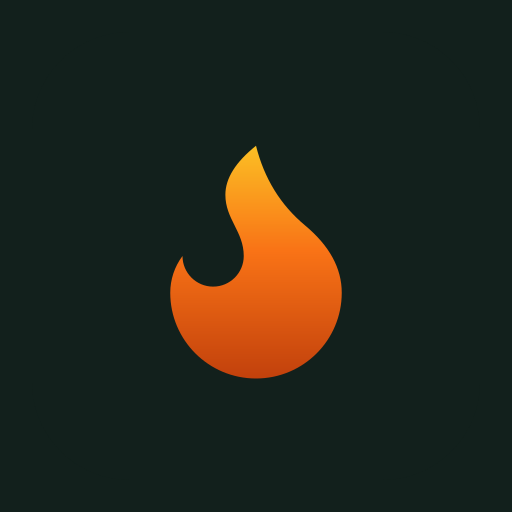
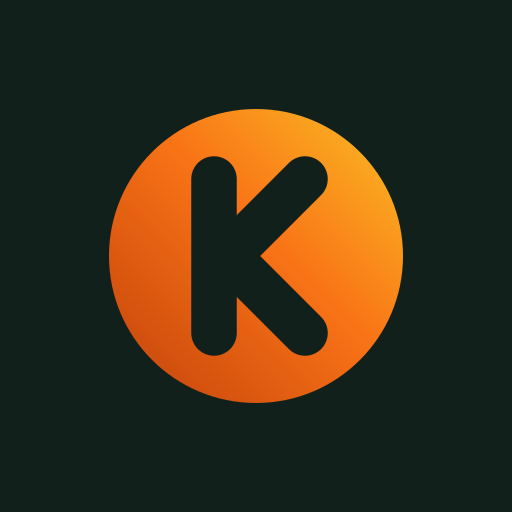
feat(marque): remplacer la flamme par le monogramme K
LA MARQUE APPARTENAIT DÉJÀ À QUELQU'UN. Une flamme pleine, en dégradé de
la braise à l'ambre, dans une tuile arrondie : c'est-à-dire, au dégradé
près, celle de Tinder. Une application installée se reconnaît à sa
silhouette sur un écran d'accueil, et celle-là n'était pas la nôtre.

LE K DANS UNE PASTILLE PLEINE. L'initiale du nom, que rien ne peut
confondre, creusée dans la couleur de la tuile plutôt que posée dessus :
c'était déjà l'argument de la flamme remplie plutôt que tracée — parmi les
icônes qui l'entourent, une masse pèse plus qu'un contour. La pastille
occupe 65 % de la tuile, sous les 80 % de la zone de sécurité du masque, et
le fond reste uni pour que le maskable se raccorde sans liseré.

LES BRAS PARTENT DU BORD DU FÛT, PAS DE SON AXE. Rendue à 16 px puis
agrandie sans lissage, la lettre se bouchait : les deux coins de braise
entre le fût et ses bras se refermaient et il ne restait qu'une tache. Les
faire naître deux unités plus à droite ouvre ces creux sans rien changer à
la silhouette. Vérifié à 16, 28 et 48 px, pixel par pixel.

LA FLAMME S'EN VA DE PARTOUT OÙ ELLE NE FAISAIT QUE SIGNER : l'en-tête,
qui sert déjà `favicon.svg`, et le repli du chargement — la laisser sur le
premier écran d'un démarrage à froid aurait gardé vivante l'association
qu'on voulait rompre. Une boussole la remplace, et bat depuis son centre au
lieu de vaciller depuis un pied qu'elle n'a pas. Elle RESTE là où elle veut
dire « ceci s'éteint » : le partage d'un jour.
[…]

Changed region(s): [[0.1875, 0.1875, 0.8125, 0.8125]]

diff --git a/src/components/PhotosExport.test.tsx b/src/components/PhotosExport.test.tsx
@@ -1,5 +1,5 @@
 import { beforeEach, describe, expect, it, vi } from 'vitest';
-import { render, screen } from '@testing-library/react';
+import { render, screen, waitFor } from '@testing-library/react';
 import userEvent from '@testing-library/user-event';
 import { ToastProvider } from '@mister-guiiug/dev-pwa-config/react/toast';
 import { downloadBlob } from '@mister-guiiug/dev-pwa-config/download';
@@ -66,6 +66,13 @@ describe('l’export des portraits', () => {
       screen.getByRole('button', { name: 'Exporter les portraits' })
     );
 
+    // IL FAUT ATTENDRE L'APPEL, PAS LE SUPPOSER. `user.click` rend la main dès
+    // que React a vidé ses microtâches, or l'export est `async` et `arrayBuffer`
+    // est ici simulé par un `FileReader` — dont l'événement `load` est une
+    // TÂCHE, pas une microtâche. Sous charge (52 fichiers en parallèle), elle
+    // arrivait après l'assertion : deux tests sur quatre tombaient une fois sur
+    // plusieurs, sans qu'une ligne ait changé.
+    await waitFor(() => expect(downloadBlob).toHaveBeenCalledOnce());
     const [fichier, nom] = vi.mocked(downloadBlob).mock.calls[0] ?? [];
     expect(nom).toMatch(
       /^portraits-saison-de-demonstration-\d{4}-\d{2}-\d{2}\.zip$/
@@ -94,6 +101,7 @@ describe('l’export des portraits', () => {
       screen.getByRole('button', { name: 'Exporter les portraits' })
     );
 
+    await waitFor(() => expect(downloadBlob).toHaveBeenCalledOnce());
     const [fichier] = vi.mocked(downloadBlob).mock.calls[0] ?? [];
     const bytes = new Uint8Array(await fichier!.arrayBuffer());
     expect(
@@ -111,9 +119,13 @@ describe('l’export des portraits', () => {
       screen.getByRole('button', { name: 'Exporter les portraits' })
     );
 
-    expect(downloadBlob).not.toHaveBeenCalled();
+    // L'AVIS D'ABORD, LE « rien n'est parti » ENSUITE. Vérifier tout de suite
+    // qu'on n'a pas téléchargé ne prouve rien : à cet instant le composant n'a
+    // encore rien pu faire. C'est après qu'il a fini — donc après son avis —
+    // que l'absence d'appel devient une affirmation.
     expect(
       await screen.findByText('Aucun portrait n’a pu être relu.')
     ).toBeInTheDocument();
+    expect(downloadBlob).not.toHaveBeenCalled();
   });
 });

diff --git a/src/App.tsx b/src/App.tsx
@@ -3,8 +3,8 @@ import { HashRouter, Navigate, Route, Routes } from 'react-router-dom';
 import {
   ArrowLeft,
   Coffee,
+  Compass,
   ExternalLink,
-  Flame,
   Monitor,
   Moon,
   Sun,
@@ -180,13 +180,22 @@ export function App() {
             >
               {!ready ? (
                 <div className="loading">
-                  {/* La flamme est le REPLI du rôle de chargement : le jour où
-                      un `.riv` le porte, Rive la remplace. En attendant, elle
-                      vacille en CSS, et le squelette esquisse la forme du
-                      contenu à venir — c'est lui qui annonce l'attente. */}
+                  {/* LA BOUSSOLE EST LE REPLI du rôle de chargement : le jour
+                      où un `.riv` le porte, Rive la remplace. En attendant,
+                      elle bat en CSS, et le squelette esquisse la forme du
+                      contenu à venir — c'est lui qui annonce l'attente.
+
+                      C'ÉTAIT UNE FLAMME, et c'est précisément l'image dont la
+                      marque vient de se défaire : la laisser sur le premier
+                      écran d'un démarrage à froid aurait gardé vivante
+                      l'association qu'on voulait rompre. La flamme reste là où
+                      elle veut dire quelque chose — un partage qui s'éteint —,
+                      pas là où elle ne faisait que signer. */}
                   <AppAnimation
                     name="referential-loading"
-                    fallback={<Flame className="flame" size={44} aria-hidden />}
+                    fallback={
+                      <Compass className="loading-mark" size={44} aria-hidden />
+                    }
                   />
                   <SkeletonGroup label="Chargement du référentiel" lines={3} />
                 </div>

diff --git a/src/App.test.tsx b/src/App.test.tsx
@@ -46,10 +46,10 @@ describe('App', () => {
 
   it('l’en-tête porte la MARQUE, pas une icône qui lui ressemble', async () => {
     // L'en-tête affichait une flamme de `lucide` : un contour générique, sans
-    // la vague ni la pastille — trois logos différents selon qu'on regardait
-    // le site, l'onglet ou l'application installée. Ce test tient la source
-    // unique : le fichier servi ici est CELUI dont `npm run icons` tire les
-    // PNG du manifeste.
+    // la pastille — trois logos différents selon qu'on regardait le site,
+    // l'onglet ou l'application installée. Ce test tient la source unique : le
+    // fichier servi ici est CELUI dont `npm run icons` tire les PNG du
+    // manifeste.
     const { container } = render(<App />);
     await screen.findByText('Saison de démonstration');
 
@@ -60,6 +60,12 @@ describe('App', () => {
     );
     // Décorative : le titre la suit et la dit déjà.
     expect(marque).toHaveAttribute('alt', '');
+    // ET PLUS AUCUNE FLAMME DE `lucide` NULLE PART DANS LA COQUE. La marque
+    // était une flamme pleine en dégradé de braise dans une tuile arrondie —
+    // celle de Tinder au dégradé près. En sortir suppose d'en sortir partout
+    // où elle ne faisait que signer : l'en-tête, et le repli du chargement.
+    // (Elle demeure là où elle veut dire « ceci s'éteint » : le partage d'un
+    // jour, qui n'est pas rendu par cet écran.)
     expect(container.querySelector('.lucide-flame')).toBeNull();
   });
 

diff --git a/src/styles.css b/src/styles.css
@@ -1097,29 +1097,24 @@ a.brand-link {
   width: min(80vw, 20rem);
 }
 
-.flame {
+/* LE SIGNE DU CHARGEMENT, ET SON ORIGINE DE TRANSFORMATION. C'était une
+   flamme, donc un mouvement enraciné à sa base (`50% 90%`) : elle vacillait
+   comme un feu tenu par le bas. Une boussole n'a pas de pied — elle bat depuis
+   son centre, et l'origine par défaut est justement celle-là. */
+.loading-mark {
   color: var(--primary);
-  transform-origin: 50% 90%;
-  animation: koh-flicker 1.4s ease-in-out infinite;
+  animation: koh-pulse 1.6s ease-in-out infinite;
 }
 
-@keyframes koh-flicker {
+@keyframes koh-pulse {
   0%,
   100% {
-    transform: scale(1) rotate(0);
+    transform: scale(1);
     opacity: 1;
   }
-  30% {
-    transform: scale(1.06) rotate(-3deg);
-    opacity: 0.85;
-  }
-  60% {
-    transform: scale(0.97) rotate(2deg);
-    opacity: 1;
-  }
-  80% {
-    transform: scale(1.04) rotate(-1deg);
-    opacity: 0.9;
+  50% {
+    transform: scale(1.08);
+    opacity: 0.75;
   }
 }
 
@@ -1687,7 +1682,7 @@ a.brand-link {
 [data-motion='essential'] .screen,
 [data-motion='essential'] .reveal,
 [data-motion='essential'] .fav[data-pop] svg,
-[data-motion='essential'] .flame,
+[data-motion='essential'] .loading-mark,
 [data-motion='essential'] .map-halo,
 [data-motion='essential'] [data-dwc='toast'],
 [data-motion='essential'] [data-dwc='update-banner'],

diff --git a/src/features/settings/SettingsScreen.tsx b/src/features/settings/SettingsScreen.tsx
@@ -43,7 +43,7 @@ const MOTION_OPTIONS = [
   {
     key: 'animations',
     label: 'Animations',
-    hint: 'Entrées d’écran, éclat de l’étoile, flamme du chargement, vibration. Décochée, une case ou un bouton répond encore.',
+    hint: 'Entrées d’écran, éclat de l’étoile, battement du chargement, vibration. Décochée, une case ou un bouton répond encore.',
   },
   {
     key: 'reduceMotion',
